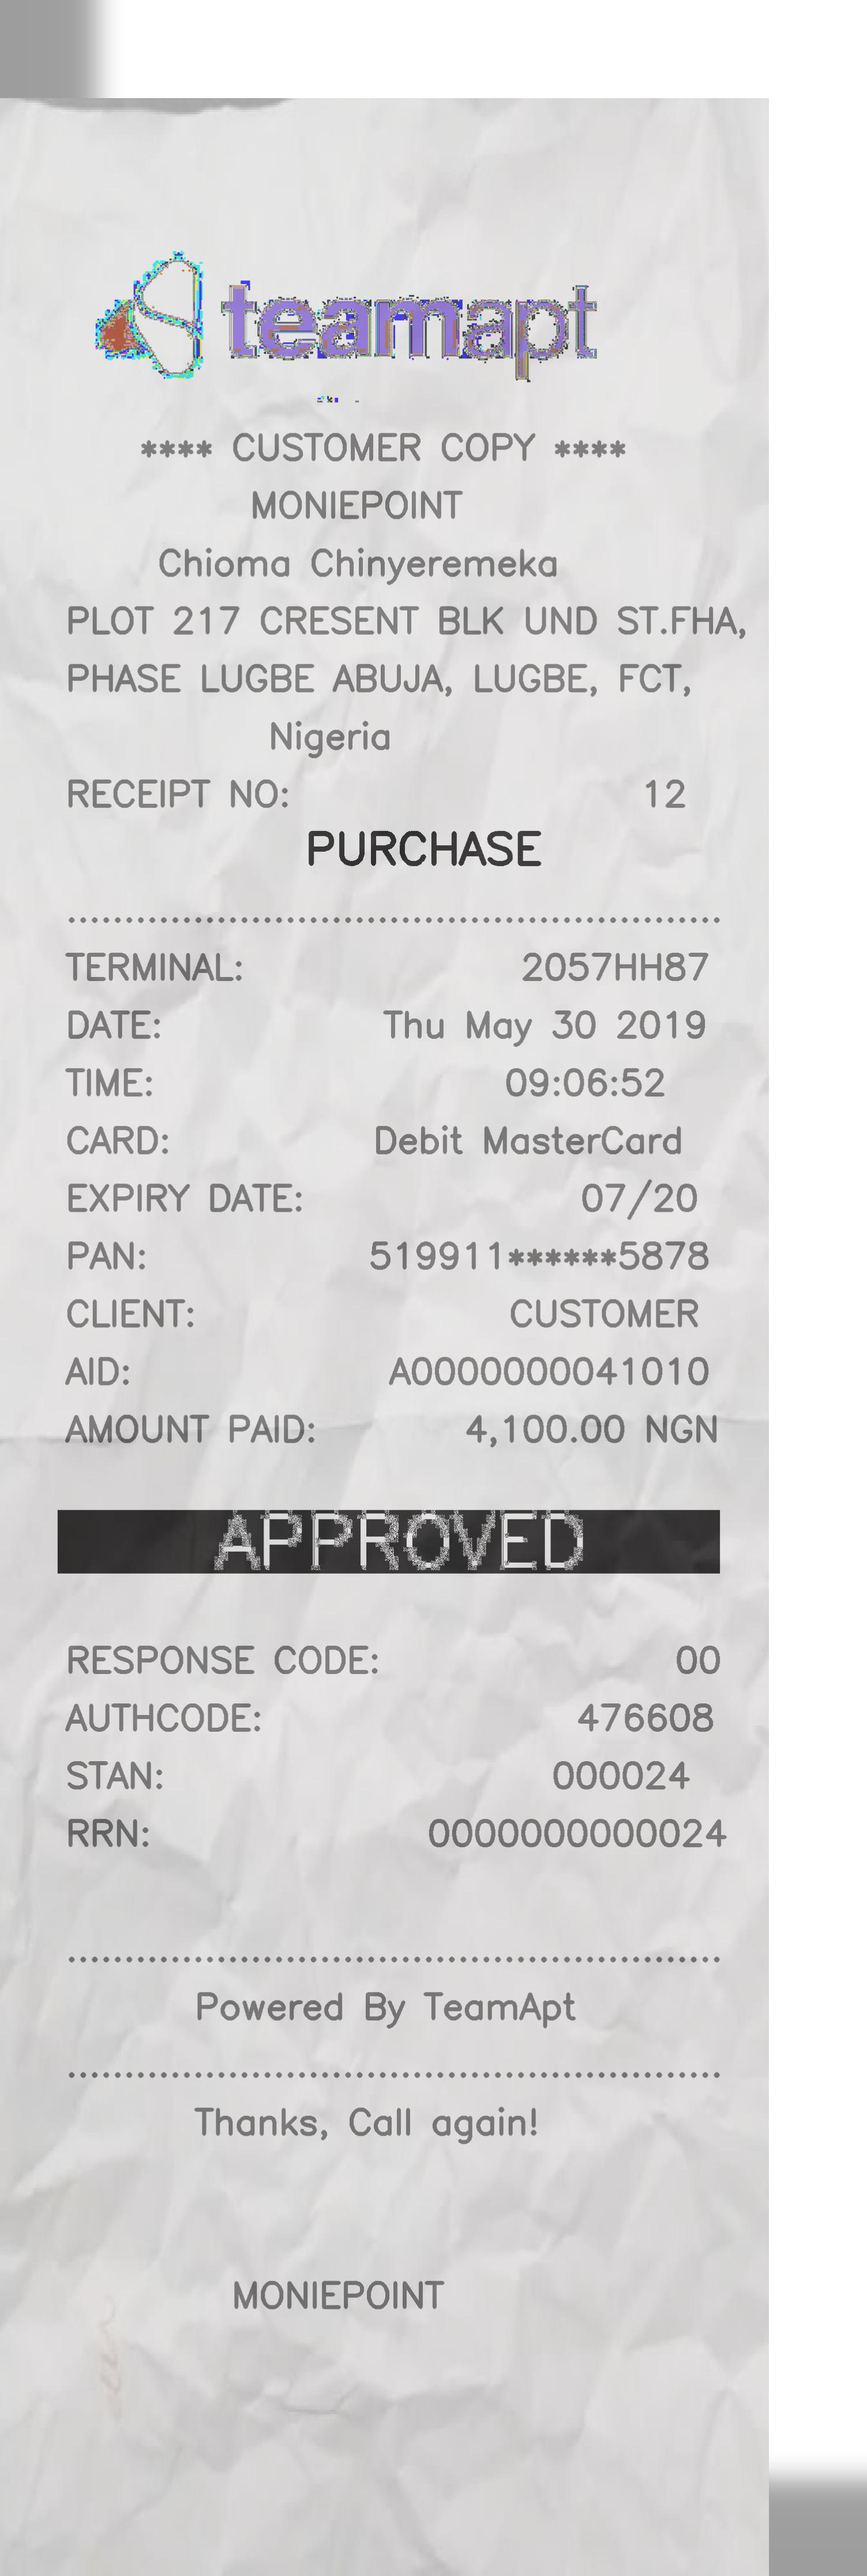
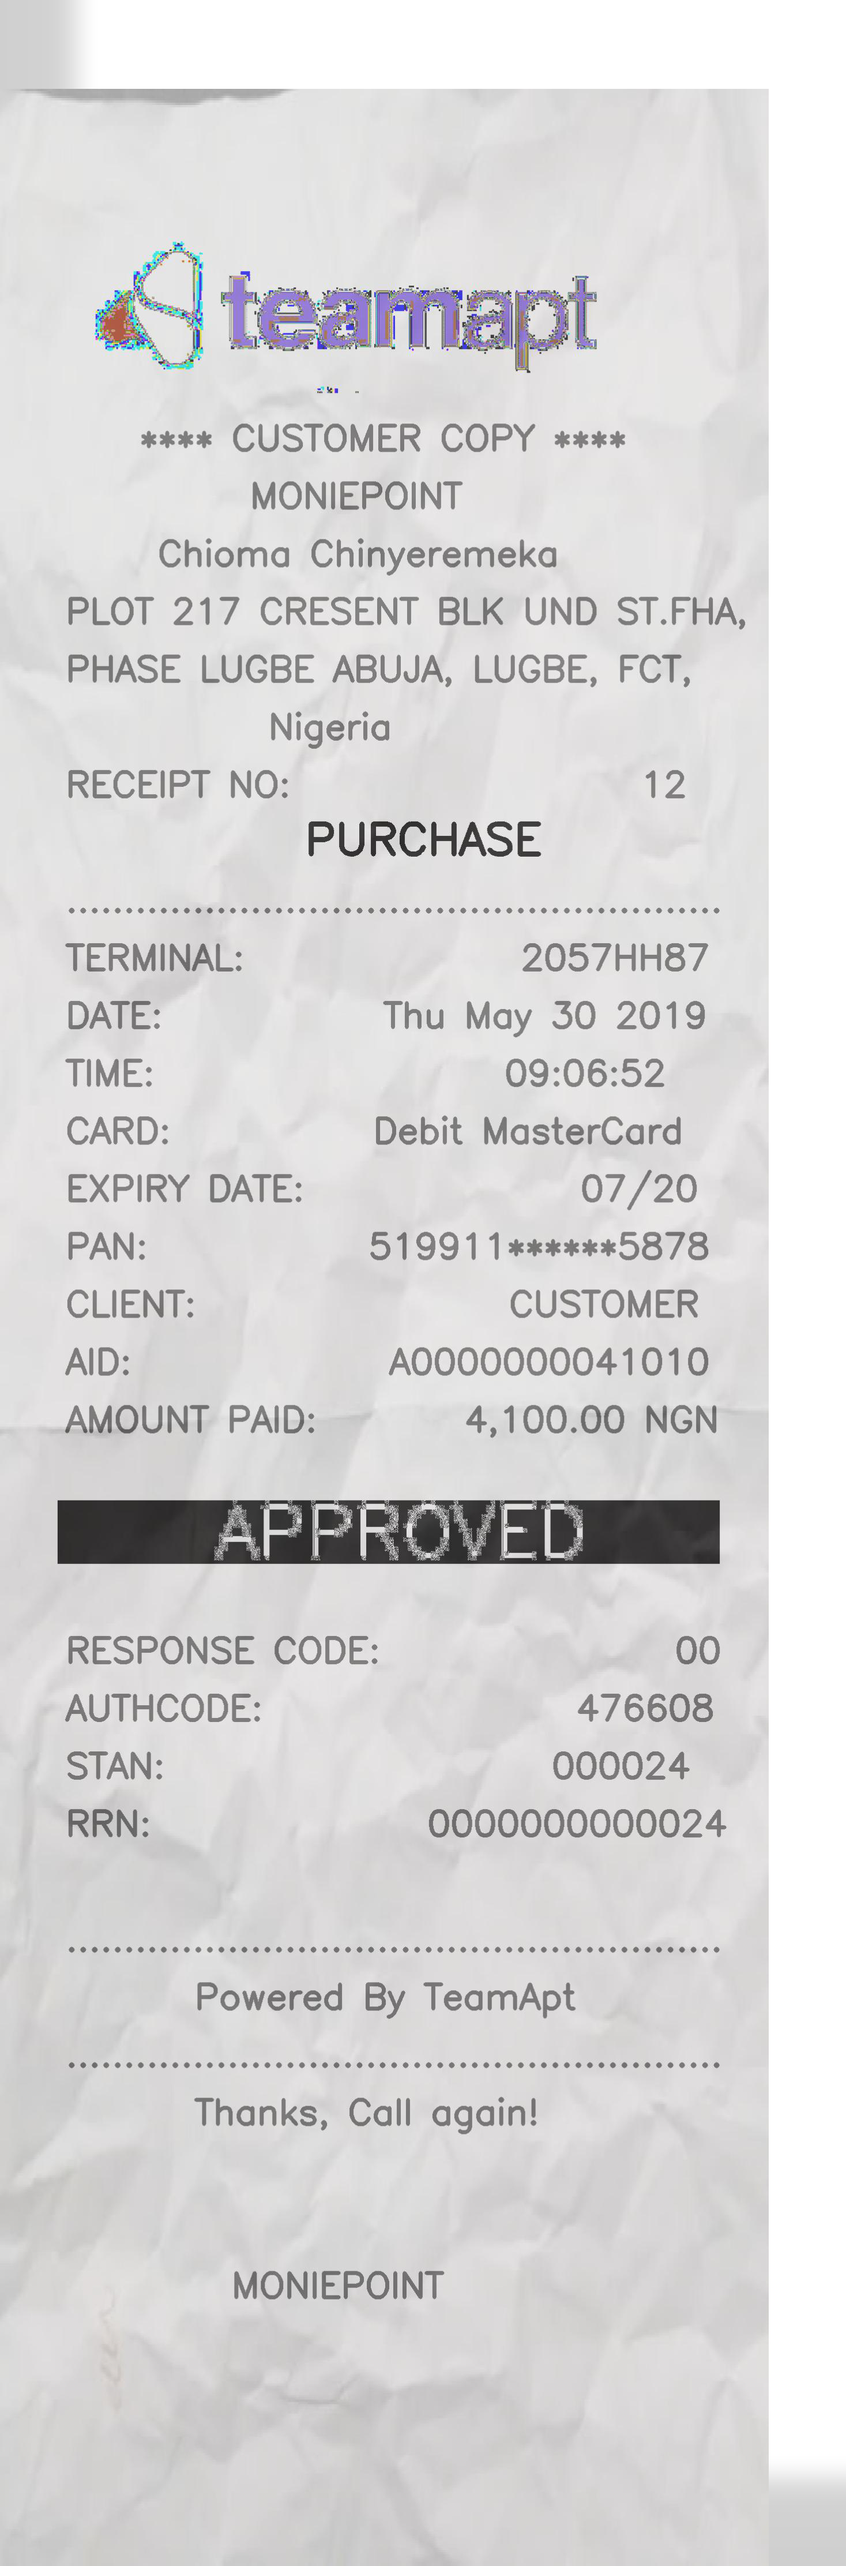
converted 2d image to 3d with skew

diff --git a/shadow_maker.py b/shadow_maker.py
@@ -17,27 +17,27 @@ def createShadow(image, offset, border, background):
    # back_shadow.save('./backgrounds/shadow.png')
    return back_shadow
 
-def addShadow(image, back_shadow, offset, border, shadow, iterations):
+def addShadow(image, image_shadow, offset, border, shadow_color, iterations):
    # Place the shadow, taking into account the offset from the image
    shadowLeft = border + max(offset[0], 0)
    shadowTop = border + max(offset[1], 0)
-   back_shadow.paste(shadow, [shadowLeft, shadowTop, shadowLeft + image.size[0],
+   image_shadow.paste(shadow_color, [shadowLeft, shadowTop, shadowLeft + image.size[0],
                        shadowTop + image.size[1]] )
    # Apply the filter to blur the edges of the shadow.  Since a small kernel
    # is used, the filter must be applied repeatedly to get a decent blur.
    n = 0
    while n < iterations:
        # back = back.filter(ImageFilter.BLUR)
-       back_shadow = back_shadow.filter(ImageFilter.GaussianBlur(20))
+       image_shadow = image_shadow.filter(ImageFilter.GaussianBlur(20))
        n += 1
 
    # Paste the input image onto the shadow backdrop
    imageLeft = border - min(offset[0], 0)
    imageTop = border - min(offset[1], 0)
-   back_shadow.paste(image, (imageLeft, imageTop))
+   image_shadow.paste(image, (imageLeft, imageTop))
 
-   # back_shadow.save("./backgrounds/shadow_image.png")
-   return back_shadow
+   # image_shadow.save("./backgrounds/shadow_image.png")
+   return image_shadow
 
 
 def dropShadow(image, offset=(170,-170), background=0x000, shadow=0x231411,

diff --git a/make_image_3d.py b/make_image_3d.py
@@ -3,12 +3,13 @@ from skimage.transform import warp, ProjectiveTransform
 import matplotlib.pyplot as plt
 import cv2
 import numpy as np
+import skimage
 
 cv2 = cv2.cv2
 
 img = cv2.imread('./final/50.jpg')
 
-theta = np.deg2rad(20)
+theta = np.deg2rad(0)
 tx = 0
 ty = 0
 
@@ -21,22 +22,24 @@ H = np.array([[C, -S, tx],
 
 # Translation matrix to shift the image center to the origin
 r, c, chans = img.shape
-T = np.array([[1, 0, -c / 2.],
-               [0, 1, -r / 2.],
+T = np.array([[1, 0, -c],
+               [0, 1, -r],
               [0, 0, 1]])
 
 # Skew, for perspective
-S = np.array([[1, 0, 0],
-              [0, 1.3, 0],
+S = np.array([[3, 0, 0],
+              [0, 4, 0],
               [0, 1e-3, 1]])
 
 trans = ProjectiveTransform(T)
 img_rot = warp(img, H)
 img_rot_center_skew = warp(img, S.dot(np.linalg.inv(T).dot(H).dot(T)))
 
-for i in [img, img_rot, img_rot_center_skew]:
-    f, ax = plt.subplots(figsize=(20,20))
-    ax.imshow(i, cmap=plt.cm.gray, interpolation='nearest')
-    ax.imwrite('./generated/3d-image.png')
-    plt.show()
+skimage.io.imsave('./generated/rotated-image.png', img_rot)
+skimage.io.imsave('./generated/3d-image.png', img_rot_center_skew)
+
+# for i in [img, img_rot, img_rot_center_skew]:
+#     f, ax = plt.subplots(figsize=(20,20))
+#     ax.imshow(i, cmap=plt.cm.gray, interpolation='nearest')
+#     plt.show()
     # plt.savefig('./generated/3d-image.png')
